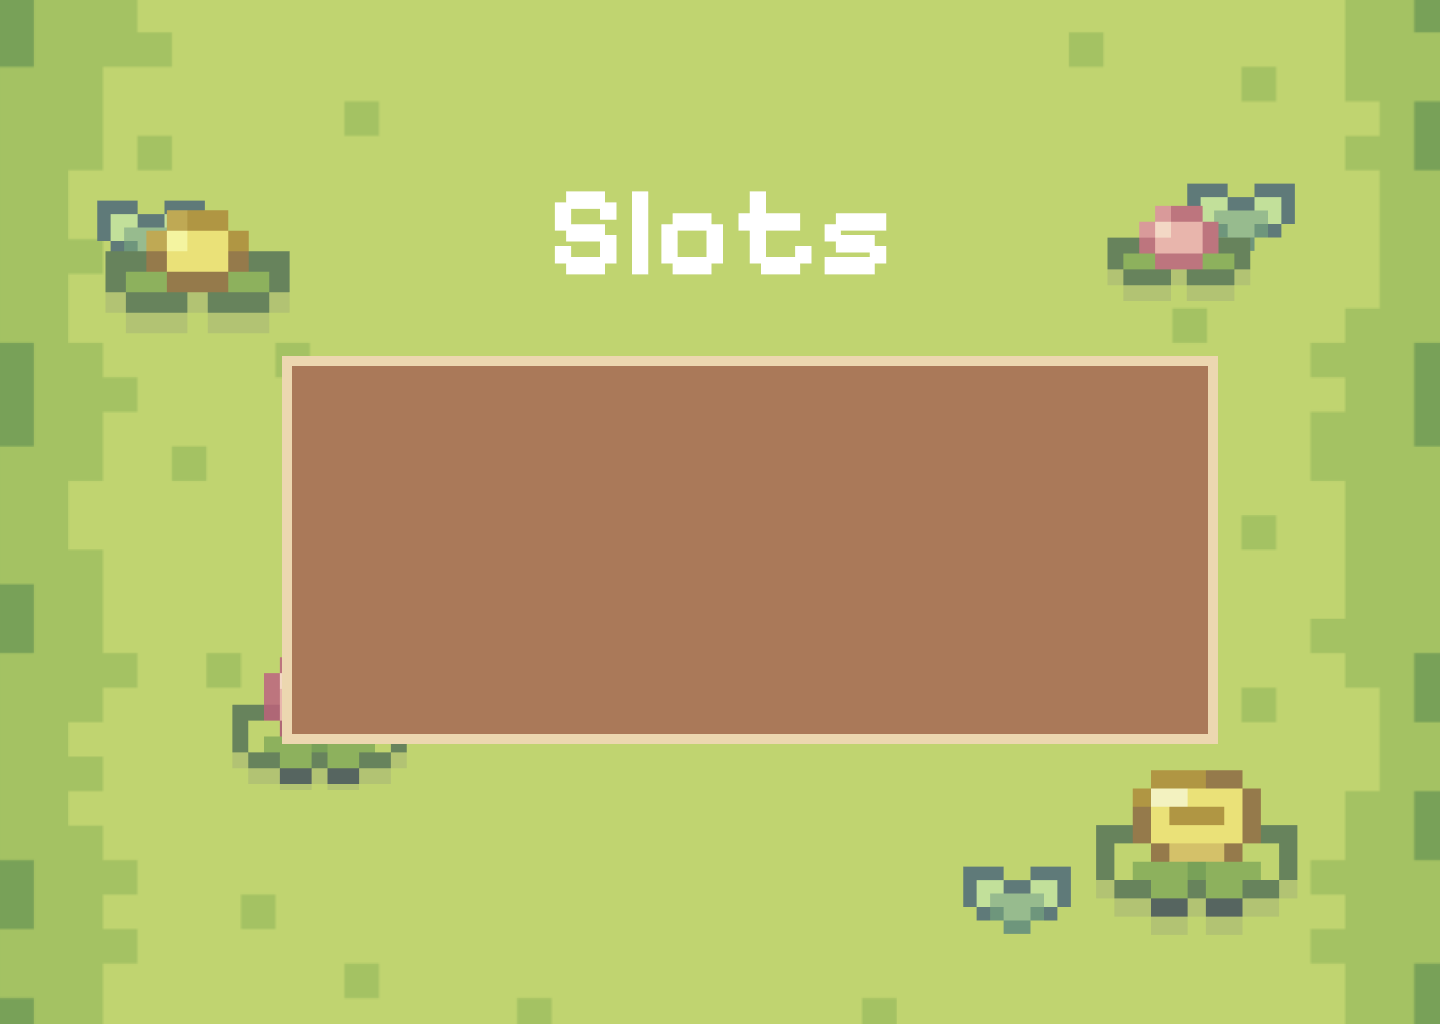
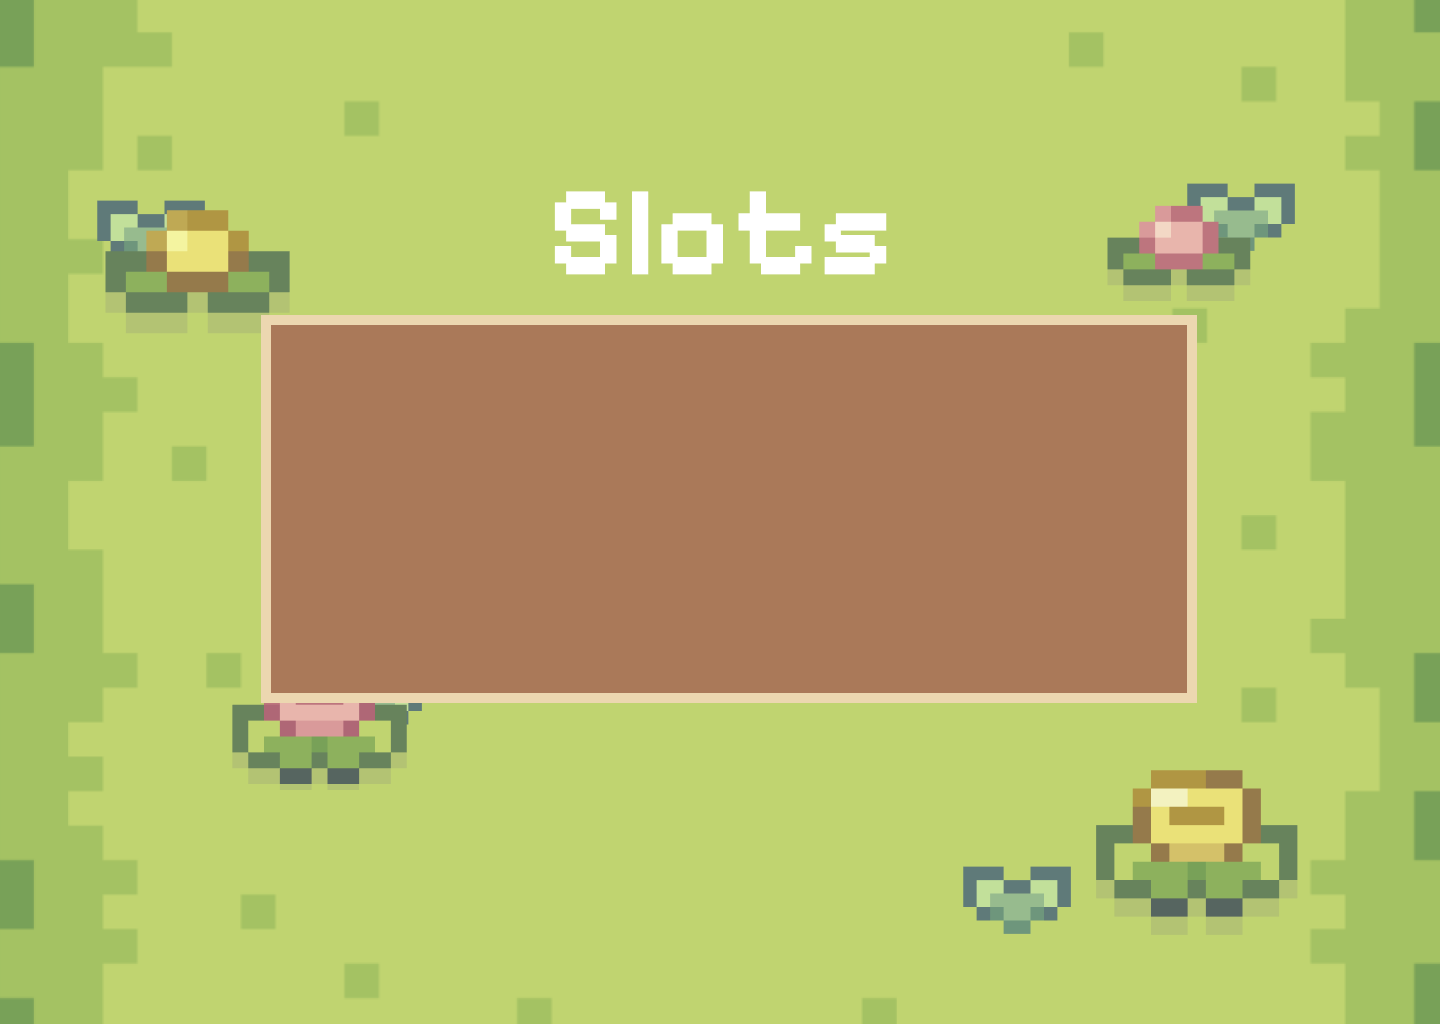
Updated SlotPage
changed slotpage background to fit slots

Changed region(s): [[0.1562, 0.2812, 0.8438, 0.75]]

diff --git a/src/styles/navbar.css b/src/styles/navbar.css
@@ -2,6 +2,5 @@ nav {
   display: flex;
   flex-direction: column;
   gap: 10px;
-  width: 
-;
+  
 }
